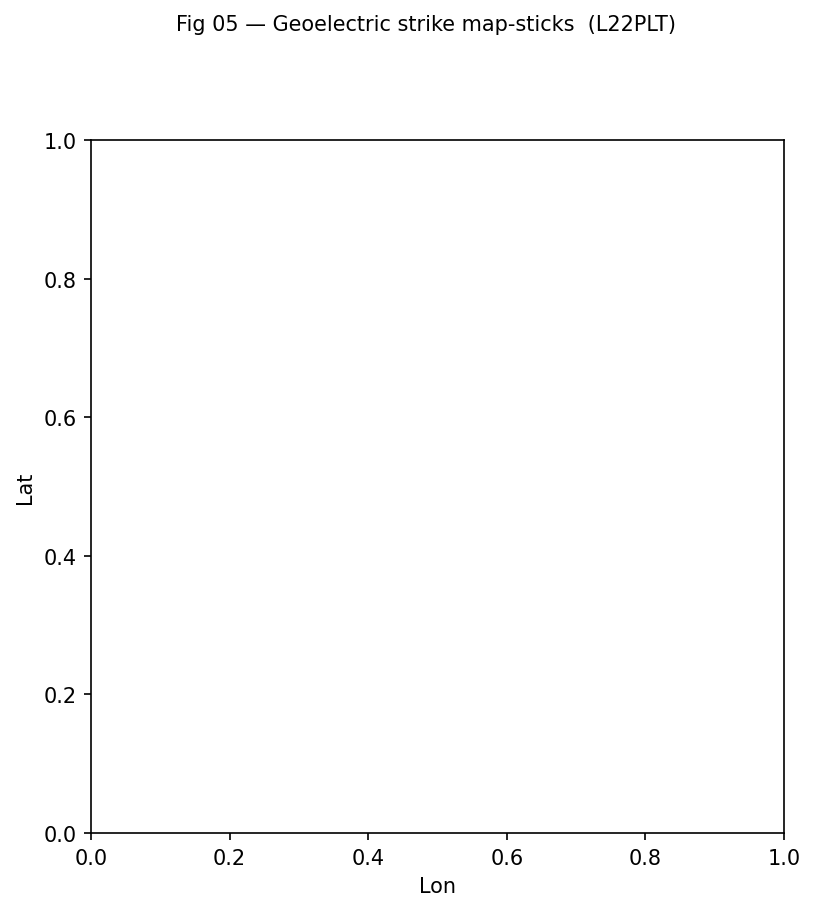
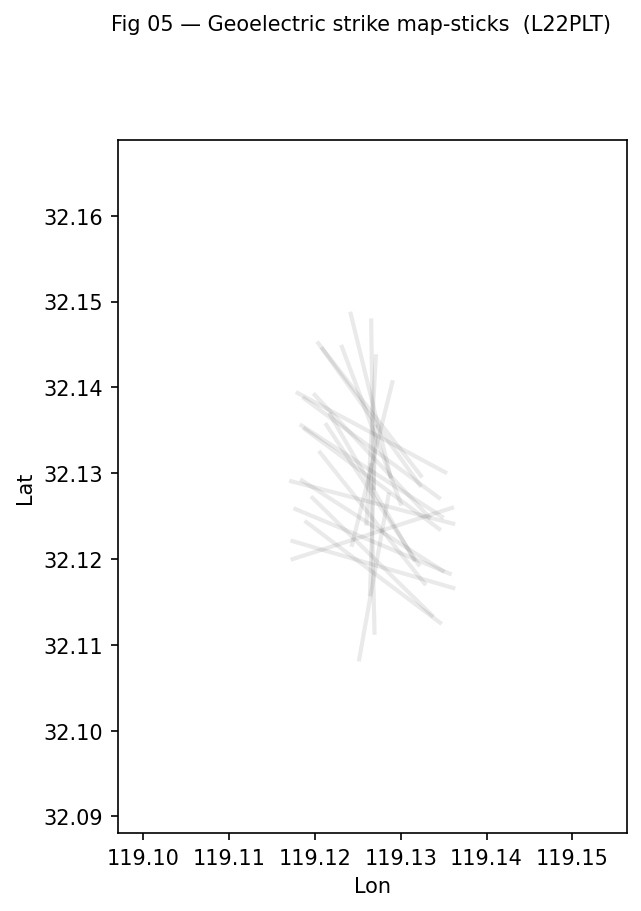
fix plot_strike_mapsticks: read lat/lon from edi.sections['head']
Site objects don't expose .lat/.lon directly; coordinates live in
ed.edi.sections['head'].lat and .long.  Add fallback to that path so
map-sticks are placed correctly — all 25 L22PLT stations now render.

diff --git a/pycsamt/emtools/strike.py b/pycsamt/emtools/strike.py
@@ -1126,6 +1126,11 @@ def plot_strike_mapsticks(
             continue
         lat = getattr(ed, "lat", None) or getattr(ed, "latitude", None)
         lon = getattr(ed, "lon", None) or getattr(ed, "longitude", None)
+        if (lat is None or lon is None):
+            _head = getattr(getattr(ed, "edi", None), "sections", {}).get("head")
+            if _head is not None:
+                lat = lat or getattr(_head, "lat", None)
+                lon = lon or getattr(_head, "long", None) or getattr(_head, "lon", None)
         if lat is None or lon is None:
             continue
         a = float(row["ang"].iloc[0]) % 180.0
